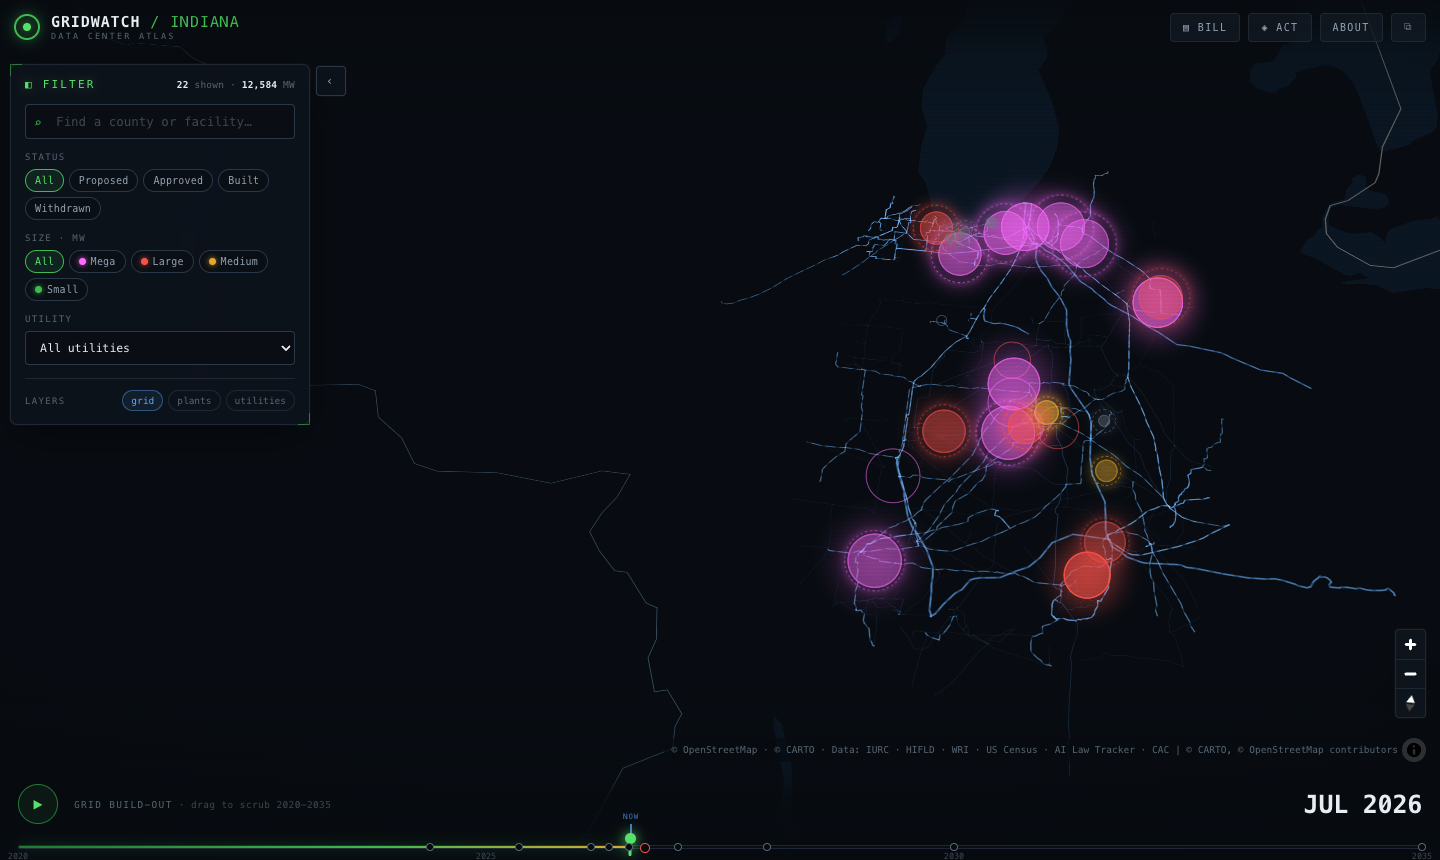
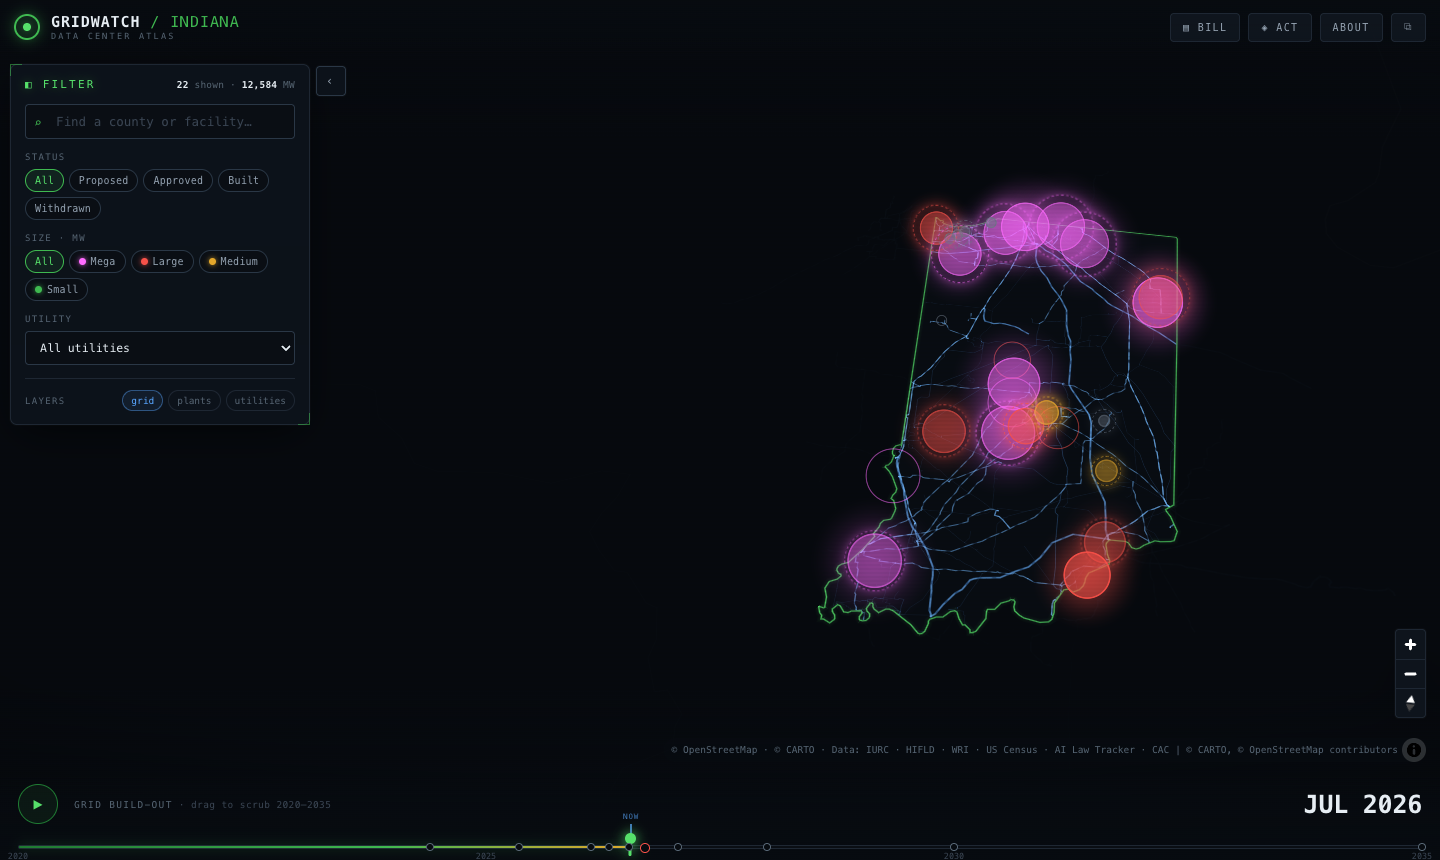
feat(map): spotlight Indiana — mask everything outside the state border
- Dissolve counties into an accurate 170-pt Indiana outline (shapely) as
  public/data/indiana.geojson (pipeline build_state step).
- Inverse-mask layer (world minus Indiana) hides all out-of-state roads,
  buildings, and labels; on the globe, Indiana reads as a lit region on the
  dark sphere. Add a glowing phosphor state border.
- Keeps the intricate basemap + 3D + rings strictly inside the state.

diff --git a/src/lib/map.ts b/src/lib/map.ts
@@ -46,6 +46,19 @@ function enrich(fc: GeoJSON.FeatureCollection, fn: (p: any) => void): GeoJSON.Fe
   return fc;
 }
 
+/** A world polygon with Indiana punched out — masks everything beyond the
+ *  state so roads/buildings/labels never leave the border (spotlight effect). */
+function buildMask(indiana: GeoJSON.FeatureCollection): GeoJSON.Feature {
+  const world = [[-180, -85], [180, -85], [180, 85], [-180, 85], [-180, -85]];
+  const holes: number[][][] = [];
+  for (const f of indiana.features) {
+    const g: any = f.geometry;
+    if (g?.type === "Polygon") holes.push(g.coordinates[0]);
+    else if (g?.type === "MultiPolygon") g.coordinates.forEach((poly: number[][][]) => holes.push(poly[0]));
+  }
+  return { type: "Feature", properties: {}, geometry: { type: "Polygon", coordinates: [world, ...holes] } };
+}
+
 export class GridMap {
   map: MLMap;
   private data: AppData;
@@ -147,6 +160,8 @@ export class GridMap {
       }),
     });
     m.addSource("fac", { type: "geojson", data: buildFacFC(this.data.facilities.facilities, this.year, this.filters) });
+    m.addSource("state", { type: "geojson", data: this.data.indiana });
+    m.addSource("mask", { type: "geojson", data: buildMask(this.data.indiana) });
 
     /* ---- utility territories (beneath labels) ---- */
     m.addLayer({ id: "terr-fill", type: "fill", source: "territories",
@@ -176,6 +191,14 @@ export class GridMap {
         "circle-color": ["get", "_c"], "circle-opacity": 0.6,
         "circle-stroke-color": ["get", "_c"], "circle-stroke-width": 0.8, "circle-stroke-opacity": 0.55,
       } }, firstLabel);
+
+    /* ---- spotlight: mask everything outside Indiana ---- */
+    m.addLayer({ id: "state-mask", type: "fill", source: "mask",
+      paint: { "fill-color": "#06090e", "fill-opacity": 0.975 } });
+    m.addLayer({ id: "state-glow", type: "line", source: "state",
+      paint: { "line-color": "#3FB950", "line-width": 7, "line-opacity": 0.16, "line-blur": 5 } });
+    m.addLayer({ id: "state-border", type: "line", source: "state",
+      paint: { "line-color": "#56E06A", "line-width": 1.4, "line-opacity": 0.85, "line-blur": 0.3 } });
 
     /* ---- data center ghosts (withdrawn) ---- */
     m.addLayer({ id: "dc-ghost", type: "circle", source: "fac",

diff --git a/src/lib/data.ts b/src/lib/data.ts
@@ -106,6 +106,7 @@ export interface AppData {
   action: ActionFile;
   dockets: DocketFile;
   counties: FC;
+  indiana: FC;
   powerPlants: FC;
   transmission: FC;
   territories: FC;
@@ -128,7 +129,7 @@ async function getFC(path: string): Promise<FC> {
 export async function loadAll(): Promise<AppData> {
   const [
     facilities, meta, timeline, bill, action, dockets,
-    counties, powerPlants, transmission, territories, substations,
+    counties, indiana, powerPlants, transmission, territories, substations,
   ] = await Promise.all([
     get<FacilitiesFile>("facilities.json"),
     get<Meta>("meta.json"),
@@ -137,10 +138,11 @@ export async function loadAll(): Promise<AppData> {
     get<ActionFile>("action_items.json"),
     get<DocketFile>("dockets.json"),
     getFC("counties.geojson"),
+    getFC("indiana.geojson"),
     getFC("power_plants.geojson"),
     getFC("transmission.geojson"),
     getFC("utility_territories.geojson"),
     getFC("substations.geojson"),
   ]);
-  return { facilities, meta, timeline, bill, action, dockets, counties, powerPlants, transmission, territories, substations };
+  return { facilities, meta, timeline, bill, action, dockets, counties, indiana, powerPlants, transmission, territories, substations };
 }

diff --git a/pipeline/fetch_geo.py b/pipeline/fetch_geo.py
@@ -194,6 +194,51 @@ def build_counties():
                   {"source": "US Census cartographic boundaries (plotly mirror)"})
 
 
+def build_state():
+    """Dissolve the county polygons into one accurate Indiana outline.
+    Used by the app to mask everything outside the state (spotlight effect)."""
+    log("STATE OUTLINE <- dissolve counties (shapely)")
+    try:
+        from shapely.geometry import shape, mapping
+        from shapely.ops import unary_union
+    except ImportError:
+        log("shapely not available; skipping indiana.geojson")
+        return
+    try:
+        with open(os.path.join(OUT, "counties.geojson")) as f:
+            counties = json.load(f)
+    except Exception as e:  # noqa: BLE001
+        log(f"counties.geojson missing ({e}); run build_counties first")
+        return
+    geoms = [shape(ft["geometry"]) for ft in counties["features"] if ft.get("geometry")]
+    if not geoms:
+        log("no county geometries")
+        return
+    diss = unary_union(geoms).buffer(0).simplify(0.004, preserve_topology=True)
+    gj = mapping(diss)
+
+    def rnd(o):
+        if isinstance(o, float):
+            return round(o, 4)
+        if isinstance(o, (list, tuple)):
+            return [rnd(x) for x in o]
+        return o
+
+    geom = {"type": gj["type"], "coordinates": rnd(gj["coordinates"])}
+    fc = {"type": "FeatureCollection",
+          "features": [{"type": "Feature", "properties": {"name": "Indiana"}, "geometry": geom}]}
+    path = os.path.join(OUT, "indiana.geojson")
+    with open(path, "w") as f:
+        json.dump(fc, f, separators=(",", ":"))
+
+    def npts(c):
+        if c and isinstance(c[0], (int, float)):
+            return 1
+        return sum(npts(x) for x in c) if isinstance(c, list) else 0
+    log(f"wrote indiana.geojson: {geom['type']}, {npts(geom['coordinates'])} pts, "
+        f"{os.path.getsize(path)/1024:.0f} KB")
+
+
 FUEL_MAP = {
     "Coal": "coal", "Gas": "gas", "Oil": "oil", "Petcoke": "oil",
     "Nuclear": "nuclear", "Solar": "solar", "Wind": "wind",
@@ -321,7 +366,7 @@ def main():
     print("=" * 60)
     print("GridWatch Indiana - geographic data pipeline")
     print("=" * 60)
-    steps = [build_counties, build_power_plants, build_territories,
+    steps = [build_counties, build_state, build_power_plants, build_territories,
              build_transmission, build_substations]
     for fn in steps:
         try: